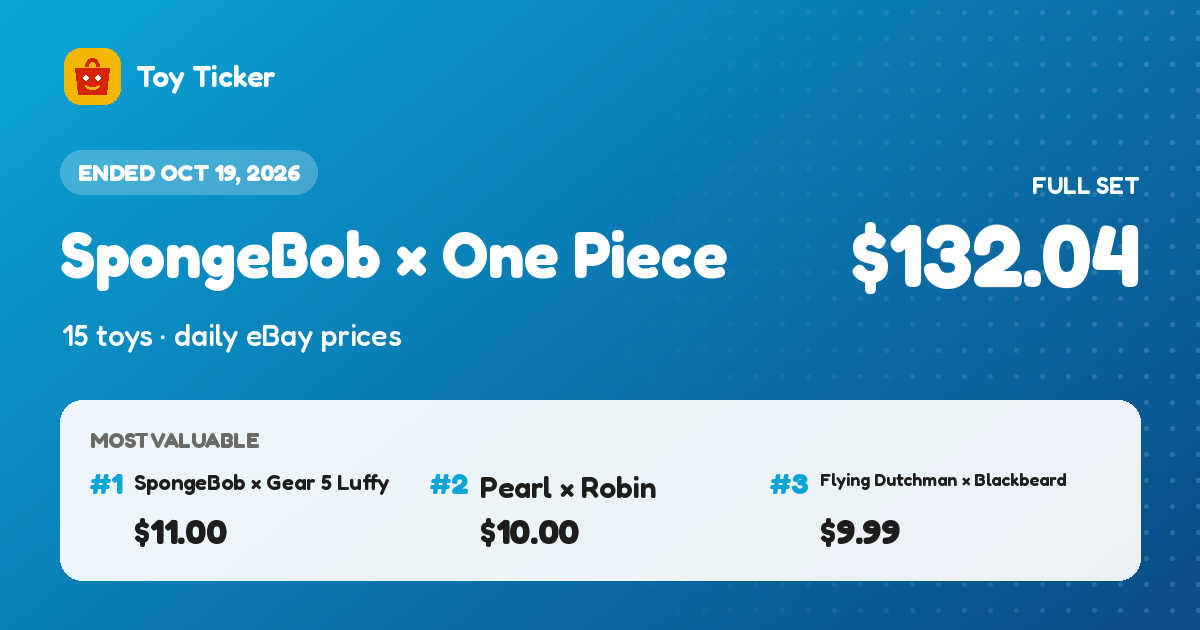
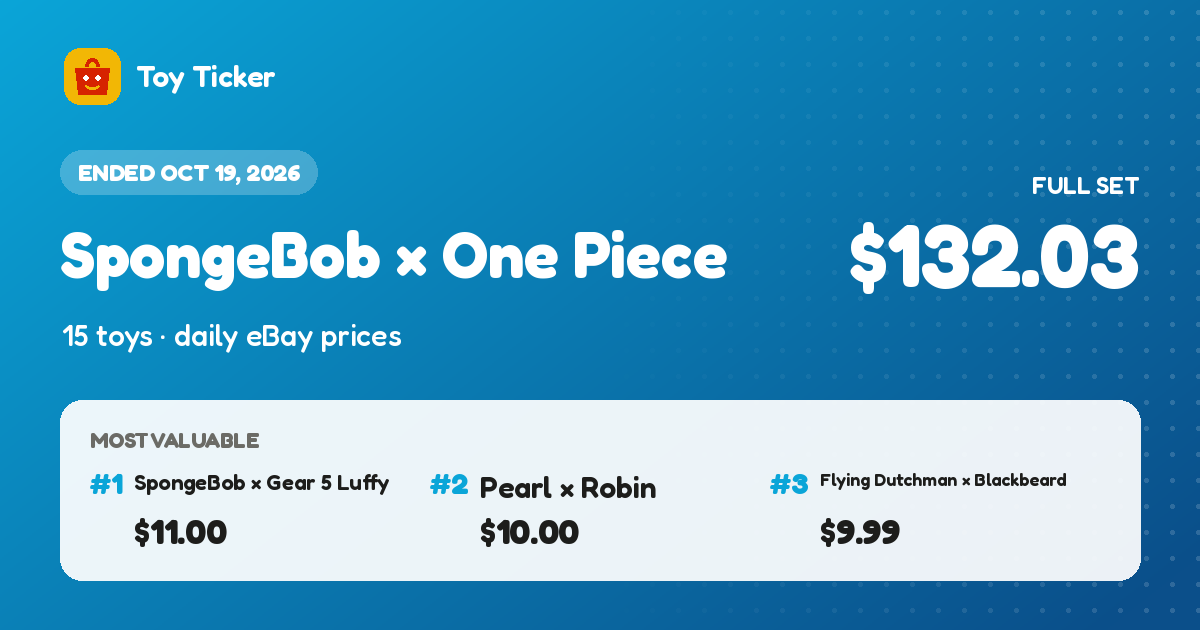
Prices for 2026-11-11

Changed region(s): [[0.7092, 0.3317, 0.9558, 0.4825]]

diff --git a/s/spongebob-onepiece-2026/index.html b/s/spongebob-onepiece-2026/index.html
@@ -3,10 +3,10 @@
 <meta charset="utf-8">
 <meta name="viewport" content="width=device-width, initial-scale=1">
 <title>SpongeBob × One Piece · Toy Ticker</title>
-<meta name="description" content="Full set $132.04 at today&#x27;s median eBay asking prices. Daily eBay prices for all 15 McDonald&#x27;s SpongeBob × One Piece Happy Meal toys.">
+<meta name="description" content="Full set $132.03 at today&#x27;s median eBay asking prices. Daily eBay prices for all 15 McDonald&#x27;s SpongeBob × One Piece Happy Meal toys.">
 <meta property="og:type" content="website">
 <meta property="og:title" content="SpongeBob × One Piece · Toy Ticker">
-<meta property="og:description" content="Full set $132.04 at today&#x27;s median eBay asking prices. Daily eBay prices for all 15 McDonald&#x27;s SpongeBob × One Piece Happy Meal toys.">
+<meta property="og:description" content="Full set $132.03 at today&#x27;s median eBay asking prices. Daily eBay prices for all 15 McDonald&#x27;s SpongeBob × One Piece Happy Meal toys.">
 <meta property="og:image" content="https://nglungfai.github.io/toy-ticker/og/spongebob-onepiece-2026.png">
 <meta property="og:url" content="https://nglungfai.github.io/toy-ticker/s/spongebob-onepiece-2026/">
 <meta name="twitter:card" content="summary_large_image">
